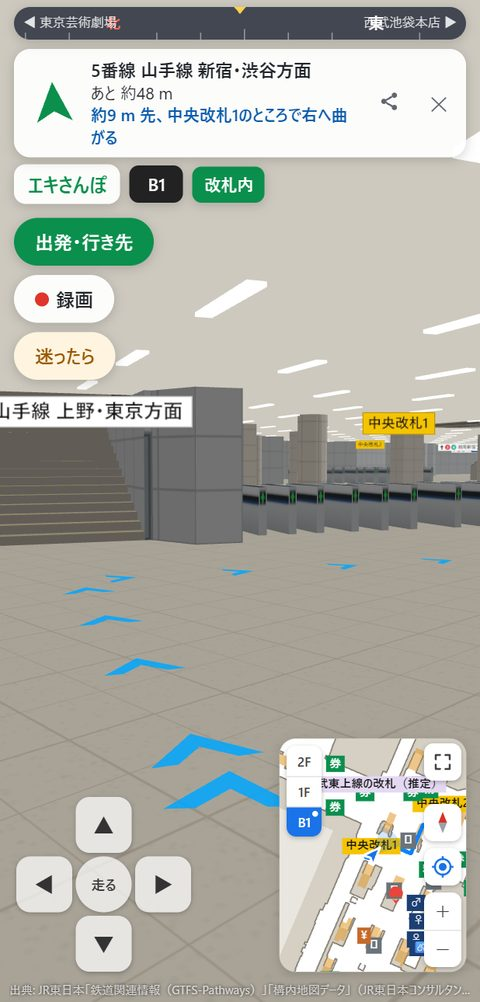
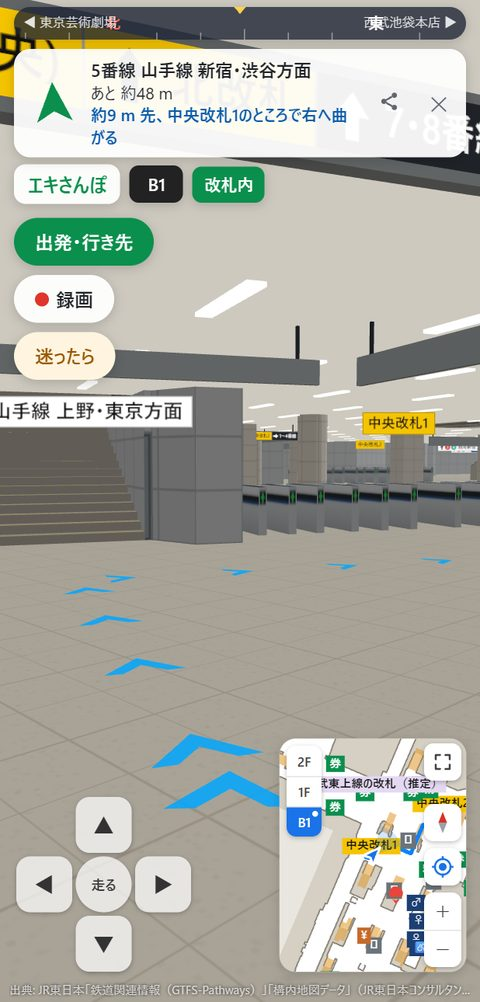
分かれ道に吊り下げの案内看板、ホームの床に乗車位置の印。使い方のページに図を足して撮り直す

diff --git a/src/app.js b/src/app.js
@@ -2,16 +2,16 @@
 // 操作（PC）: WASD・矢印キーで歩く、ドラッグで見回す。（スマホ）左下の十字キー、右側をなぞると見回す。
 
 import * as THREE from 'three';
-import { buildWorld, addGateRow, EYE, STEP } from './world.js?v=mvtapwhc';
-import { encodeTrack, decodeTrack, startVideo, SAMPLE_MS, MAX_SAMPLES } from './record.js?v=mvtapwhc';
-import { addTrains } from './trains.js?v=mvtapwhc';
-import { routeSteps, stepLine } from './steps.js?v=mvtapwhc';
+import { buildWorld, addGateRow, EYE, STEP } from './world.js?v=mvtbdrdn';
+import { encodeTrack, decodeTrack, startVideo, SAMPLE_MS, MAX_SAMPLES } from './record.js?v=mvtbdrdn';
+import { addTrains } from './trains.js?v=mvtbdrdn';
+import { routeSteps, stepLine } from './steps.js?v=mvtbdrdn';
 
 const $ = (id) => document.getElementById(id);
 const touchUI = matchMedia('(pointer: coarse)').matches;
 if (touchUI) document.body.classList.add('touch');
 
-const VER = '?v=mvtapwhc'; // 公開用に書き出すとき、版の印（?v=…）に置きかえる（tools/publish.mjs）
+const VER = '?v=mvtbdrdn'; // 公開用に書き出すとき、版の印（?v=…）に置きかえる（tools/publish.mjs）
 const STATIONS = await fetch(`data/stations.json${VER}`).then((r) => r.json());
 const ST = STATIONS.find((s) => s.key === new URLSearchParams(location.search).get('st')) || STATIONS[0];
 const [data, mallBuf] = await Promise.all([
@@ -657,6 +657,179 @@ function fareSide(x, y, l) {
     return paid[i] ? 'in' : 'out';
   }
   return 'out';
+}
+
+// ---------- 吊り下げの案内看板 ----------
+// 経路網の分かれ道（同じ階の 3 方向以上につながる点。ホームの上は除く）の手前 2.5 m に、近づいてくる人の側を向けて天井から下げる。
+// 改札とホームの番線のそれぞれへ経路網で道をたどり（graphChain と同じ損: 改札を通る・床の途切れた線）、その分かれ道から進む向きを
+// 近づいてくる向きに対する矢印（← ↖ ↑ ↗ →）にする。向きが 2 つ以上に分かれる所だけ。改札は黄色、ホームは黒（JR の案内の色）。
+// 行き先まで 8 m 以内のものは出さない。後ろへ戻る道のものは出さない。分かれ道は 12 m 以内を 1 つにまとめ、同じ向きの看板は 15 m（同じ中身は 30 m）以内に 2 つ置かない。全部の番線へ同じ向きなら「のりば（全番線）」
+const guideSigns = [];
+{
+  const n = GN.length;
+  // 行き先: 改札（名前ごと）と、ホーム（番線ごと）
+  const targets = [
+    ...data.dest.filter((d) => d.t === 'gate').map((d) => ({ kind: 'gate', name: d.name, nodes: d.nodes })),
+    ...data.dest.filter((d) => d.t === 'plat').map((d) => ({ kind: 'plat', code: d.code, name: d.name, nodes: d.nodes })),
+  ].filter((t) => t.nodes?.length);
+  // 逆向きにたどる（行き先からの距離と、行き先へ向かう次の点）
+  const radj = GN.map(() => []);
+  for (const [i, j, len, mode, bi] of data.graph.e) { radj[j].push([i, len, mode]); if (bi) radj[i].push([j, len, mode]); }
+  for (const t of targets) {
+    const dist = new Float64Array(n).fill(Infinity), next = new Int32Array(n).fill(-1), done = new Uint8Array(n);
+    const sides = new Set(t.nodes.map((i) => paid[i])), cost = sides.size === 1 ? GATE_COST : 0;
+    const heap = []; // [距離, 点] の小さい順（東京は 3,000 点・行き先 40 なので、毎回いちばん近い点を探すと遅い）
+    const push = (d, v) => { heap.push([d, v]); let i = heap.length - 1; while (i) { const p = (i - 1) >> 1; if (heap[p][0] <= heap[i][0]) break; [heap[p], heap[i]] = [heap[i], heap[p]]; i = p; } };
+    const pop = () => { const top = heap[0], last = heap.pop(); if (heap.length) { heap[0] = last; let i = 0; for (;;) { const a = 2 * i + 1, b = a + 1; let m = i; if (a < heap.length && heap[a][0] < heap[m][0]) m = a; if (b < heap.length && heap[b][0] < heap[m][0]) m = b; if (m === i) break; [heap[m], heap[i]] = [heap[i], heap[m]]; i = m; } } return top; };
+    for (const i of t.nodes) { dist[i] = 0; push(0, i); }
+    while (heap.length) {
+      const [du, u] = pop();
+      if (done[u] || du > dist[u]) continue;
+      done[u] = 1;
+      for (const [v, len, mode] of radj[u]) { // v → u の線
+        const nd = dist[u] + len + (mode === 5 ? 60 : 0) + (mode === 6 || mode === 7 || (GN[u][2] === GN[v][2] && paid[u] !== paid[v]) ? cost : 0) + (edgeGap(u, v) ? 3000 : 0);
+        if (nd < dist[v]) { dist[v] = nd; next[v] = u; push(nd, v); }
+      }
+    }
+    t.dist = dist; t.next = next;
+  }
+  const inRing = (x, y, r) => { let s = false; for (let i = 0, j = r.length - 2; i < r.length; j = i, i += 2) if ((r[i + 1] > y) !== (r[j + 1] > y) && x < ((r[j] - r[i]) * (y - r[i + 1])) / (r[j + 1] - r[i + 1]) + r[i]) s = !s; return s; };
+  const onPlat = (x, y, l) => data.floors.some((f) => f.k === 'plat' && f.l === l && inRing(x, y, f.r[0]));
+  const nb = GN.map(() => new Set());
+  for (const [i, j] of data.graph.e) if (GN[i][2] === GN[j][2]) { nb[i].add(j); nb[j].add(i); }
+  const ARROWS = ['L', 'UL', 'U', 'UR', 'R'];
+  const arrowOf = (ax, ay, bx, by) => { // 近づく向き (ax, ay) に対する進む向き (bx, by)。左が正
+    const a = Math.atan2(ax * by - ay * bx, ax * bx + ay * by) * 180 / Math.PI;
+    if (Math.abs(a) < 25) return 'U';
+    if (Math.abs(a) < 65) return a > 0 ? 'UL' : 'UR';
+    if (Math.abs(a) < 135) return a > 0 ? 'L' : 'R';
+    return null; // 後ろ
+  };
+  // 分かれ道 J から行き先 t へ進む向き: 次の点をたどって 3 m 以上離れた所（階が変わる所まで）
+  const goDir = (J, t) => {
+    let v = J;
+    for (let k = 0; k < 12; k++) {
+      const w = t.next[v];
+      if (w < 0) return null;
+      if (GN[w][2] !== GN[J][2]) return [GN[w][0] - GN[J][0], GN[w][1] - GN[J][1], w, v === J ? w : v];
+      v = w;
+      if (Math.hypot(GN[v][0] - GN[J][0], GN[v][1] - GN[J][1]) >= 3) break;
+    }
+    return [GN[v][0] - GN[J][0], GN[v][1] - GN[J][1], v, t.next[J]];
+  };
+  const codeList = (codes) => { // 記号（K・S など）ごとに、3 つ以上続く番号は「1〜4」に
+    const by = {};
+    for (const c of new Set(codes)) { const m = /^(\D*)(\d+)$/.exec(c); (by[m ? m[1] : c] = by[m ? m[1] : c] || []).push(m ? +m[2] : null); }
+    return Object.entries(by).map(([p, ks]) => {
+      const nums = ks.filter((k) => k != null).sort((a, b) => a - b), out = ks.some((k) => k == null) ? [p] : [];
+      for (let i = 0; i < nums.length;) {
+        let j = i;
+        while (j + 1 < nums.length && nums[j + 1] === nums[j] + 1) j++;
+        out.push(j - i >= 2 ? `${p}${nums[i]}〜${p}${nums[j]}` : nums.slice(i, j + 1).map((k) => p + k).join('・'));
+        i = j + 1;
+      }
+      return out.join('・');
+    }).join('・') + '番線';
+  };
+  // 分かれ道: 12 m 以内のものは 1 つに（つながる線の多い点から）。東京は経路網の点が細かく、そのままでは 1,500 枚を超えた
+  const junctions = [];
+  for (const J of [...GN.keys()].filter((i) => nb[i].size >= 3).sort((a, b) => nb[b].size - nb[a].size)) {
+    const [jx, jy, jl] = GN[J];
+    if (onPlat(jx, jy, jl) || junctions.some((k) => GN[k][2] === jl && Math.hypot(GN[k][0] - jx, GN[k][1] - jy) < 12)) continue;
+    junctions.push(J);
+  }
+  const allPlats = new Set(targets.filter((t) => t.kind === 'plat').map((t) => t.code));
+  for (const J of junctions) {
+    const [jx, jy, jl] = GN[J];
+    for (const A of nb[J]) {
+      const [ax, ay] = GN[A], L = Math.hypot(jx - ax, jy - ay);
+      if (L < 4) continue; // 4 m 以上の通路から近づく向きだけ
+      const ux = (jx - ax) / L, uy = (jy - ay) / L; // 近づく向き
+      const groups = {};
+      for (const t of targets) {
+        if (!(t.dist[J] < 1e6) || t.dist[J] < 8) continue;
+        const g = goDir(J, t);
+        if (!g || t.next[J] === A) continue;
+        const ar = arrowOf(ux, uy, g[0], g[1]);
+        if (ar) (groups[ar] = groups[ar] || []).push(t);
+      }
+      const keys = ARROWS.filter((k) => groups[k]);
+      if (keys.length < 2) continue;
+      // 看板の中身: 向きごとに、改札（近い 2 つ）とホーム（番線をまとめる）
+      const segs = [];
+      for (const k of keys) {
+        const gs = groups[k].filter((t) => t.kind === 'gate').sort((p, q) => p.dist[J] - q.dist[J]).slice(0, 2);
+        const ps = groups[k].filter((t) => t.kind === 'plat');
+        if (gs.length) segs.push({ arrow: k, kind: 'gate', text: gs.map((t) => t.name).join('・') });
+        if (ps.length) segs.push({ arrow: k, kind: 'plat', text: allPlats.size > 2 && ps.length === allPlats.size ? 'のりば（全番線）' : codeList(ps.map((t) => t.code)) });
+      }
+      // 置く所: 分かれ道の手前 2.5 m（線が短ければ半分）。床の上で、天井の下
+      const back = Math.min(2.5, L / 2), px = jx - ux * back, py = jy - uy * back;
+      const gz = phys.groundAt(px, py, LV[jl].z);
+      if (gz == null || Math.abs(gz - LV[jl].z) > 0.6) continue;
+      const key = segs.map((sg) => sg.arrow + sg.text).join('|');
+      if (guideSigns.some((s) => s.l === jl && s.ux * ux + s.uy * uy > 0.7 && Math.hypot(s.x - px, s.y - py) < (s.key === key ? 30 : 15))) continue; // 同じ向きは 15 m、同じ中身は 30 m 以内に 2 つ置かない
+      if (guideSigns.some((s) => s.l === jl && Math.hypot(s.x - px, s.y - py) < 1.5)) continue;
+      guideSigns.push({ x: px, y: py, z: gz, l: jl, ux, uy, segs, key });
+    }
+  }
+  // 看板の絵: 区切りごとに 矢印 + 文字。改札は黄色の地に黒、ホームは黒の地に白
+  const drawArrow = (g, k, x, y, s, col) => { // 中心 (x, y)、大きさ s
+    const a = { L: Math.PI, UL: (Math.PI * 3) / 4, U: Math.PI / 2, UR: Math.PI / 4, R: 0 }[k];
+    g.save(); g.translate(x, y); g.rotate(-a); g.fillStyle = col;
+    g.beginPath(); g.moveTo(s, 0); g.lineTo(0, -s * 0.8); g.lineTo(0, -s * 0.32); g.lineTo(-s, -s * 0.32); g.lineTo(-s, s * 0.32); g.lineTo(0, s * 0.32); g.lineTo(0, s * 0.8); g.closePath(); g.fill();
+    g.restore();
+  };
+  const FONT = 'bold 38px system-ui, "Hiragino Sans", "Noto Sans JP", sans-serif'; // 看板の数が多い（東京）ので絵は小さく（高さ 64 画素）
+  const frame = new THREE.MeshLambertMaterial({ color: '#3a4048' }), backing = new THREE.MeshLambertMaterial({ color: '#b4bbc1' }); // 裏は明るい灰色（黒いと、裏から見た看板が天井の下で重たく見えた）
+  const meas = document.createElement('canvas').getContext('2d');
+  meas.font = FONT;
+  // 文字の絵は近いものだけ作る（guideUpdate。東京は 500 枚あり、全部作るとスマホで重い）
+  const paint = (s) => {
+    const c = document.createElement('canvas'), g = c.getContext('2d');
+    c.width = Math.ceil(s.ws.reduce((a, b) => a + b, 0)); c.height = 64;
+    let x = 0;
+    s.segs.forEach((sg, i) => {
+      const [bg, fg] = sg.kind === 'gate' ? ['#f5c400', '#111'] : ['#1f2328', '#fff'];
+      g.fillStyle = bg; g.fillRect(x, 0, s.ws[i], 64);
+      if (i) { g.fillStyle = '#8a9096'; g.fillRect(x, 0, 2, 64); }
+      drawArrow(g, sg.arrow, x + 14 + 23, 32, 21, fg);
+      g.font = FONT; g.fillStyle = fg; g.textAlign = 'left'; g.textBaseline = 'middle'; g.fillText(sg.text, x + 14 + 46 + 10, 34);
+      x += s.ws[i];
+    });
+    const t = new THREE.CanvasTexture(c); t.colorSpace = THREE.SRGBColorSpace; t.anisotropy = 4;
+    return t;
+  };
+  guideSigns.paint = paint;
+  for (const s of guideSigns) {
+    s.ws = s.segs.map((sg) => 14 + 46 + 10 + meas.measureText(sg.text).width + 16);
+    let h = 0.42, w = (h * s.ws.reduce((a, b) => a + b, 0)) / 64;
+    if (w > 4.2) { h *= 4.2 / w; w = 4.2; } // 長い看板は小さく
+    const ceil = LV[s.l].ceil || 2.9, zc = s.z + Math.min(2.45, ceil - 0.2 - h / 2), top = LV[s.l].z + ceil;
+    const grp = new THREE.Group();
+    grp.add(new THREE.Mesh(new THREE.BoxGeometry(w + 0.06, h + 0.06, 0.06), backing));
+    const face = new THREE.Mesh(new THREE.PlaneGeometry(w, h), new THREE.MeshBasicMaterial({ color: '#2a2f35' })); // 光る板（絵は近づいてから）
+    face.position.z = 0.035; grp.add(face);
+    s.face = face; s.zc = zc;
+    const rodLen = Math.max(0.05, top - zc - h / 2);
+    for (const sx of [-w / 2 + 0.2, w / 2 - 0.2]) { const rod = new THREE.Mesh(new THREE.BoxGeometry(0.03, rodLen, 0.03), frame); rod.position.set(sx, h / 2 + rodLen / 2, 0); grp.add(rod); }
+    grp.position.copy(V3(s.x, s.y, zc));
+    grp.rotation.y = Math.atan2(-s.ux, s.uy); // 表（+z）を近づいてくる人の側 (-ux, -uy) へ
+    scene.add(grp);
+  }
+}
+// 自分から 50 m 以内（高さの差 8 m 以内）の看板に文字の絵を付け、70 m より遠くなったら外す。0.5 秒ごと
+let guideAcc = 1;
+function guideUpdate(dt) {
+  guideAcc += dt;
+  if (guideAcc < 0.5) return;
+  guideAcc = 0;
+  for (const s of guideSigns) {
+    const d = Math.hypot(s.x - me.x, s.y - me.y), dz = Math.abs(s.zc - me.z);
+    const mat = s.face.material;
+    if (!mat.map && d < 50 && dz < 8) { mat.map = guideSigns.paint(s); mat.color.set('#fff'); mat.needsUpdate = true; }
+    else if (mat.map && (d > 70 || dz > 12)) { mat.map.dispose(); mat.map = null; mat.color.set('#2a2f35'); mat.needsUpdate = true; }
+  }
 }
 
 // ---------- 道のりの区切りと目印（steps.js） ----------
@@ -1812,6 +1985,7 @@ function frame(now) {
     if (side !== fareShown) { fareShown = side; $('fare').textContent = side === 'in' ? '改札内' : '改札外'; $('fare').className = `pill fare ${side}`; }
   }
   trains.update(dt);
+  guideUpdate(dt);
   watchLevel();
   updateGuide();
   updateReplayGuide();
@@ -1826,4 +2000,4 @@ $('loading').hidden = true;
 requestAnimationFrame(frame);
 
 // 確かめ用（コンソールから位置を見る・動かす）
-window.ekisanpo = { me, phys, setDest, data, move, nav, rec, replay, encodeTrack, decodeTrack, trains, mini, jumpTo, W2S, S2W, getGrid, gridPath, startAt, scene, camera, THREE, fareSide, stepHelp, fareRows };
+window.ekisanpo = { me, phys, setDest, data, move, nav, rec, replay, encodeTrack, decodeTrack, trains, mini, jumpTo, W2S, S2W, getGrid, gridPath, startAt, scene, camera, THREE, fareSide, stepHelp, fareRows, guideSigns };

diff --git a/src/trains.js b/src/trains.js
@@ -216,6 +216,19 @@ function addBoards(scene, data, trains) {
     grp.rotation.y = Math.atan2(fx, -fy); // 板の表（+z）を (fx, fy) へ（データの (x, y) は three.js の (x, 0, -y)）
     scene.add(grp);
   };
+  // 乗車位置の印（床）: 路線の色の枠と、線路の側を指す 3 つの三角。路線の色ごとに 1 枚の絵
+  const markTex = {}, markGeo = new THREE.PlaneGeometry(1.4, 0.8);
+  const markMat = (col) => markTex[col] || (markTex[col] = (() => {
+    const c = document.createElement('canvas'); c.width = 256; c.height = 146;
+    const g = c.getContext('2d');
+    g.fillStyle = 'rgba(255,255,255,0.85)'; g.fillRect(6, 6, 244, 134);
+    g.strokeStyle = col; g.lineWidth = 10; g.strokeRect(6, 6, 244, 134);
+    g.fillStyle = col;
+    for (const x of [64, 128, 192]) { g.beginPath(); g.moveTo(x, 30); g.lineTo(x + 30, 112); g.lineTo(x - 30, 112); g.closePath(); g.fill(); }
+    const t = new THREE.CanvasTexture(c); t.colorSpace = THREE.SRGBColorSpace; t.anisotropy = 4;
+    return new THREE.MeshLambertMaterial({ map: t, transparent: true, depthWrite: false, polygonOffset: true, polygonOffsetFactor: -2, polygonOffsetUnits: -2 });
+  })());
+  const N = data.graph.n;
   const boards = [];
   for (const o of trains) {
     const { d, cx, cy, ux, uy, plat } = o.tr;
@@ -224,6 +237,20 @@ function addBoards(scene, data, trains) {
     const side = (x, y) => Math.sign((x - cx) * nx + (y - cy) * ny) || 1; // 線路のどちら側か
     const inward = (x, y) => { const s = side(x, y); return [x + s * 0.6 * nx, y + s * 0.6 * ny]; }; // 線路から離れる向きへ 0.6 m
     const along = (p) => (p[0] - cx) * ux + (p[1] - cy) * uy;
+    // 乗車位置の印: 乗車位置の点を線路に直角に動かし、ホームドアの線（線路の中心から 1.53 m）から 0.6 m ホームの側に。三角は線路の側へ
+    for (const i of d.nodes) {
+      const [x, y, l] = N[i], s = (x - cx) * nx + (y - cy) * ny, sg = Math.sign(s) || 1;
+      if (l !== d.level || Math.abs(s) > 8) continue;
+      const k = Math.abs(s) - 1.53 - 0.6, mx = x - sg * nx * k, my = y - sg * ny * k;
+      if (!inRing(mx, my, r)) continue;
+      const m = new THREE.Mesh(markGeo, markMat(d.color || '#0b8f4d'));
+      m.rotation.x = -Math.PI / 2;
+      const grp = new THREE.Group();
+      grp.add(m);
+      grp.position.set(mx, LV[l].z + 0.01, -my);
+      grp.rotation.y = Math.atan2(sg * nx, -sg * ny); // 絵の上（データの +y）を線路の側 (-sg·n) へ
+      scene.add(grp);
+    }
     // 駅名標: 両端の点から 5 m 中ほどへ
     const nm = new THREE.MeshBasicMaterial({ map: nameBoard(st, d) }); // 光る板
     for (const p of [d.signs[0], d.signs[d.signs.length - 1]]) {

diff --git a/manual.html b/manual.html
@@ -199,6 +199,11 @@ a { color: var(--blue); }
     <figure><img src="manual/28_name_board.jpg" alt="5番線の駅名標" loading="lazy"><figcaption>駅名標: 駅名・よみ・駅番号と「つぎは 目白」</figcaption></figure>
     <figure><img src="manual/18_down_sign.jpg" alt="ホームへの下り口の上の、1番線 山手線 東京・上野方面の札" loading="lazy"><figcaption>ホームへの下り口: 上に番線・路線・方面の札（品川駅 2F）</figcaption></figure>
   </div>
+  <p><b>案内看板と乗車位置</b>: 通路の分かれ道の手前には、天井から<b>案内看板</b>が下がっています。改札（黄色）とホームの番線（黒）へ、その分かれ道からどちらへ進むかを矢印で示します（行き先を選ばなくても見えます）。ホームの床には、路線の色の枠と三角の<b>乗車位置の印</b>があります。</p>
+  <div class="two">
+    <figure><img src="manual/29_guide_sign.jpg" alt="分かれ道の吊り下げの案内看板" loading="lazy"><figcaption>案内看板: 「← 南改札・中央改札2　← 1〜4番線　↑ 5・6番線　→ 7・8番線」のように、改札は黄色・ホームは黒</figcaption></figure>
+    <figure><img src="manual/30_boarding_mark.jpg" alt="ホームの床の乗車位置の印" loading="lazy"><figcaption>乗車位置の印: ホームドアの手前の床に、路線の色の枠と線路の側を指す三角</figcaption></figure>
+  </div>
   <p><b>駅の設備</b>: コインロッカー・券売機・精算機・ATM・両替機は壁ぎわに並ぶ箱、売店・案内所はカウンターで、上に札が出ます（壁ぎわに置けない所は札だけ）。どれも行き先に選べます。</p>
   <div class="two">
     <figure><img src="manual/24_machines.jpg" alt="ATM と券売機の並び" loading="lazy"><figcaption>券売機（緑の帯「きっぷ」）と ATM（青い帯）</figcaption></figure>

diff --git a/index.html b/index.html
@@ -5,7 +5,7 @@
 <meta name="viewport" content="width=device-width, initial-scale=1, maximum-scale=1, user-scalable=no, viewport-fit=cover">
 <title>エキさんぽ</title>
 <meta name="description" content="JR の駅（池袋・東京・新宿・渋谷・品川・高輪ゲートウェイ）と地下街を、人の目線で自由に歩き回れる立体の構内図">
-<link rel="stylesheet" href="src/style.css?v=mvtapwhc">
+<link rel="stylesheet" href="src/style.css?v=mvtbdrdn">
 <script type="importmap">
 { "imports": { "three": "https://cdn.jsdelivr.net/npm/three@0.160.0/build/three.module.js" } }
 </script>
@@ -171,7 +171,7 @@
       <li>壁や改札機にはぶつかります。改札機のあいだを通り抜けてください</li>
     </ul>
     <p id="helpCredit" class="note"></p>
-    <p class="note"><a href="manual.html" target="_blank" rel="noopener">使い方（録画と共有・URL・データ）</a>　版: <span id="appVer">10/29 17:43（mvtapwhc）</span></p>
+    <p class="note"><a href="manual.html" target="_blank" rel="noopener">使い方（録画と共有・URL・データ）</a>　版: <span id="appVer">10/29 18:01（mvtbdrdn）</span></p>
     <button id="helpOk" class="btn primary" type="button">歩きはじめる</button>
   </div>
 </div>
@@ -179,6 +179,6 @@
 <footer id="credit"></footer>
 <div id="loading">読み込み中…</div>
 
-<script type="module" src="src/app.js?v=mvtapwhc"></script>
+<script type="module" src="src/app.js?v=mvtbdrdn"></script>
 </body>
 </html>
